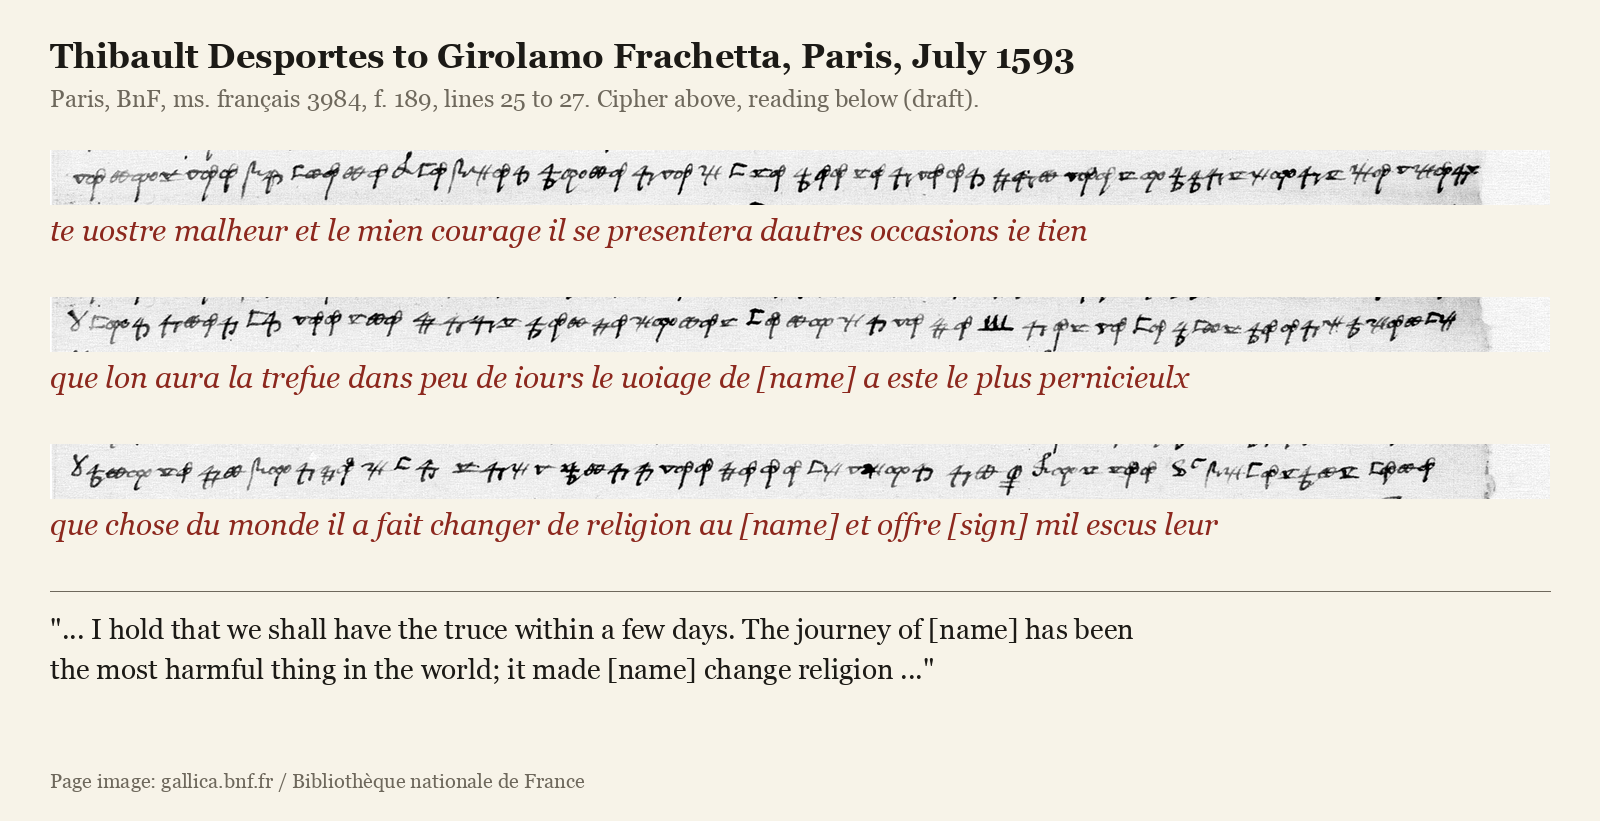
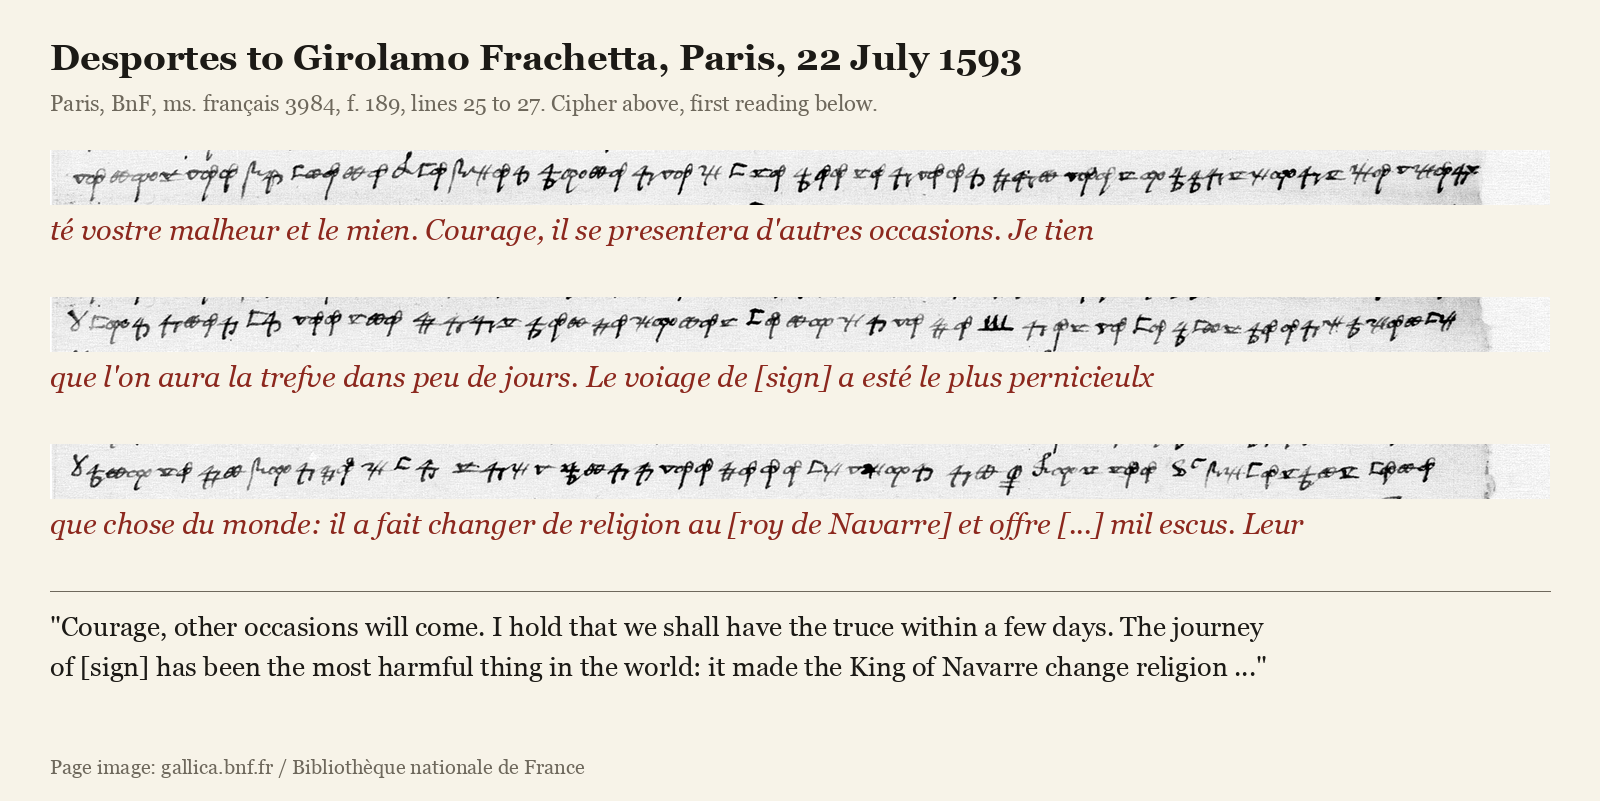
Version 0.2: final first readings of f. 189 and f. 186, checked line by line on the images
Replaces the draft readings with the line-by-line text, sign values and
translations; adds the twelve-line held-out test and the agreement figures
for the unread pages; rebuilds two images with the final text.

diff --git a/evidence/worklog.md b/evidence/worklog.md
@@ -83,3 +83,40 @@ github.com/dbourdeau/cyphersolver, targets/sega1593): gold labels, f. 185 text, 
   and to Lisieux (22 and 26 July), but NOT the letters to Aldobrandini and Frachetta.
   Web search for phrases of the reading ("docteur Gratian", "l'homme de la chesne") with Desportes/Frachetta:
   no hit.
+- 18:30 HELD-OUT RESULT 2 (final). Models v_s0, v_s1, v_r0 trained on 100 gold lines (6,066 glyphs); test on
+  12 lines never used for training (f188v 7-10, f176r 20-23, f176v 20-23; 728 glyphs, 767 letters):
+  GLYPH accuracy 99.0 % (7 errors); end-to-end LETTER accuracy 97.3 % (21 errors).
+  Per page: f188v 96.7 % of letters, f176r 95.9 %, f176v 99.2 %. (`eval_e2e.py`)
+  Caveat: the f176v gold was made by correcting recogniser output against f. 177v, so its 4 lines are a
+  softer test than the 8 lines read by eye before any model existed (those: 98.5 % glyphs, 95.6 % letters).
+- 18:40 Unread pages read with 9 models (p_s0, p_s1, p_r0 trained on all 112 lines; v_*, h_*): f189 2,088
+  glyphs, f186r 2,565, f186v 2,046. Ensemble disagreement 1.0 %, 1.3 %, 2.0 % of glyphs; glyphs outside
+  lexicon words 0.2 %. Raw machine output with glyph classes: `results/dump_*.txt`.
+- 19:30 Every line of the three pages checked on the image (annotated sheets `annot.py`, zooms `wspot.py`,
+  `gl.py`); edited readings with doubt marks and translations: `results/f189_reading.txt`,
+  `results/f186_reading.txt`. Findings on the hand: the sign with a crossed stroke over S = Sa Sainteté, with
+  two bars = Monsieur; "V.S.I." is a clear abbreviation; clear "Mre" = maistre; "part.er" = particulier; on
+  f. 186v the gutter hides the last 1-2 glyphs of most lines.
+- External checks of the reading (none was in the lexicon or forced by the language model):
+  "doit dimanche aller a la messe" (22 July 1593 was a Thursday; Henri IV abjured on Sunday 25 July);
+  "Mateouci/Mateuci" and "Malvoisie" (the papal commissaries Girolamo Matteucci and Innocenzo Malvasia);
+  "pontificat du [pape] Gregoire" (Gregory XIV paid the papal army of 1591); "duc de Feria"; "accepter
+  Monsieur [de Guise] pour roy" (the Spanish proposal of July 1593, also in f. 188v).
+- Prior-art check (final): cryptiana mayenne.htm / league.htm / unsolved.htm (27 Sept 2026) - "undeciphered";
+  Bourdeau README and repo (30 Sept 2026) - "Not read"; BnF notice - nos. 88, 90 "avec chiffre" only, and the
+  royal office's extracts (fr. 3983 no. 72) skip both letters; web searches for "Mateuci"/"Malvoisie" with
+  Desportes 1593, "docteur Gratian", "homme de la chesne", "servir de fable a toute la crestiente": no hit.
+  I found no earlier reading. I did not search printed literature (e.g. studies on Frachetta or on Philippe
+  Desportes's brother) beyond the web.
+- Not resolved: one name in f189 l. 17; the sign after "voiage de" (f189 l. 26); f186v ll. 0-3 (about 10
+  glyphs, gutter); the clear words of f186r l. 17; the cover names of the Frachetta letter.
+- Housekeeping: canvases, models, logs and renders live on the Spark (`~/code-breaking/sega1593/`, 370 MB
+  without the venv). The Mac keeps scripts, gold, lines, results. To rerun: `./sync.sh`, then on the Spark
+  `./venv/bin/python eval_e2e.py v_s0.pt v_s1.pt v_r0.pt` and `annot.py <page> 0 60 <models>`.
+
+## What would take it further
+- A specialist's check of the code signs and cover names; the Aldobrandini and Frachetta papers may name them.
+- Higher-resolution or colour images of f. 186v (gutter) and the blots on f. 189.
+- f. 274 and the other letters in this cipher (fr. 3982, 3983, 4715 f. 61) should now read with the same
+  models after a few gold lines of each hand.
+- The clear opening of f. 186r still needs a letter-by-letter transcription.

diff --git a/README.md b/README.md
@@ -5,12 +5,14 @@ before Henri IV abjured Protestantism.
 
 | Letter | Shelfmark | State before | State now |
 |---|---|---|---|
-| Desportes to Girolamo Frachetta | Paris, BnF, ms. français 3984, f. 189 | "Undeciphered" | [draft reading and translation](reading/f189.md) |
-| Desportes to Pietro Aldobrandini, the Pope's nephew | BnF, ms. français 3984, f. 186 | "Enciphered passages are undeciphered" | [draft reading, selected passages translated](reading/f186.md) |
+| Desportes to Girolamo Frachetta | Paris, BnF, ms. français 3984, f. 189 | "Undeciphered" | [first reading and translation](reading/f189.md) |
+| Desportes to Pietro Aldobrandini, the Pope's nephew | BnF, ms. français 3984, f. 186 | "Enciphered passages are undeciphered" | [first reading and translation of the cipher passages](reading/f186.md) |
 
-**Status: working draft, version 0.1, 1 October 2026.** The readings are machine readings that a person has not yet
-checked sign by sign. The signs for names are not yet resolved. This repository is private until those two points
-are closed.
+**Status: first reading, version 0.2, 1 October 2026.** Every line was checked against the page image by the model
+that made the reading. No palaeographer has checked it yet. Most signs for persons are resolved from the deciphered
+sister letters (the Pope, the King of Navarre, Mayenne, the King of Spain, the Legate, Guise). A few signs and all
+cover names ("nostre oncle", "l'homme de la chesne", "l'homme du colege", "docteur Gratian") are open. This
+repository is private.
 
 ## What the letters say
 
@@ -21,9 +23,13 @@ cause turns.
   wishing to become a Catholic, **and on Sunday he is to go to Mass**". Spain wants the League to elect a king, but
   its army "has done nothing but stay on the frontier". Everyone is "tired of serving as a tale for all
   Christendom".
-- To Frachetta: "I hold that we shall have the truce within a few days." The papal legate "has done what he could
-  to help the Spaniard" and "has neglected the service of his [master], to the point of not delivering a single one
-  of our briefs", working instead "to hasten the dismemberment of our state".
+- To Aldobrandini again: the Legate "has shown himself their partisan, to tear apart our poor state", and Mayenne
+  was patient to the point of "being willing to accept Monsieur [de Guise] for king, provided he was shown the means
+  to defend him".
+- To Frachetta: "I hold that we shall have the truce within a few days." The journey of an envoy "has made [the King
+  of Navarre] change religion". The papal legate "has done what he could to cover the Spaniard" and "has neglected
+  the service of his master, to the point of not delivering a single one of our briefs", working instead "to hasten
+  the dismemberment of our state".
 
 Henri IV abjured and heard Mass on Sunday 25 July 1593. The general truce followed on 31 July.
 
@@ -113,8 +119,8 @@ inference, and a comparison of hands would settle it. See [prior_art/scholarship
 
 ## Before this repository goes public
 
-- [ ] Check both readings against the page images, line by line.
-- [ ] Resolve the name signs.
+- [x] Check both readings against the page images, line by line (done by the model; a human check is still open).
+- [ ] Resolve the remaining signs and the cover names.
 - [ ] Add the report on the manuscript volume (`prior_art/volume.md`).
 - [ ] Remove local file paths from the reports and the work log.
 - [ ] Choose a licence, and confirm that no file from another project is included without its licence.

diff --git a/evidence/accuracy.md b/evidence/accuracy.md
@@ -22,7 +22,14 @@ to 23. The first eight (482 signs, 505 letters) were read by eye before any mode
 | Signs read correctly | 98.5 % (7 errors in 482) | 73 to 79 % |
 | Letters correct after decoding | 95.6 % (22 errors in 505) | 30 to 40 % |
 
-The recogniser was an ensemble of four models, trained on 53 lines (3,166 signs) at the time of this test. One
+A second test on twelve lines (the same eight plus f. 176v lines 20 to 23; 728 signs, 767 letters), with three
+models trained on 100 lines, gave 99.0 % of signs (7 errors) and 97.3 % of letters (21 errors). The four added
+lines are a softer test, because their labels were made by correcting recogniser output against f. 177v.
+
+On the unread pages, nine models disagree on 1.0 % of signs (f. 189), 1.3 % (f. 186 recto) and 2.0 % (f. 186
+verso). Only 0.2 % of signs fall outside words of the lexicon.
+
+In the first test the recogniser was an ensemble of four models, trained on 53 lines (3,166 signs) at the time of this test. One
 held-out label was corrected after the test, when the image showed that the label was wrong.
 
 ## How much sign error the decoder tolerates
